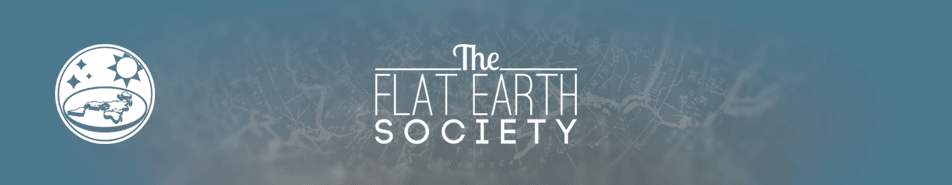
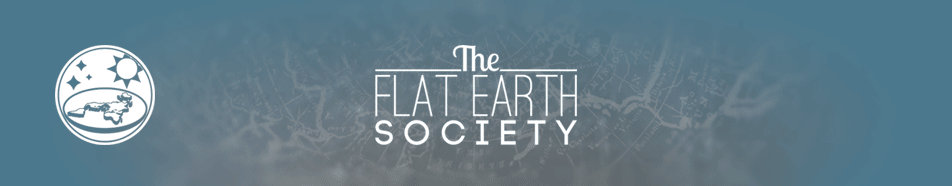
Fix header scaling to work correctly with the video files provided

diff --git a/tfes.css b/tfes.css
@@ -264,7 +264,7 @@ input.button {
 #header {
   position: relative;
   width: 952px;
-  height: 185px;
+  height: 186px;
   color: #fff;
   padding: 0;
   margin: 0;

diff --git a/header.php b/header.php
@@ -37,7 +37,7 @@
 
 <div id="wrap">
   <header id="header">
-	<video width=952 height=185 autoplay loop muted>
+	<video width=952 height=186 autoplay loop muted>
 		<source src="./videos/header.webm" type="video/webm">
 		<source src="./videos/header.mp4" type="video/mp4">
 		<h1><img src="./The Flat Earth Society_files/header.png" alt="The Flat Earth Society"></h1>
